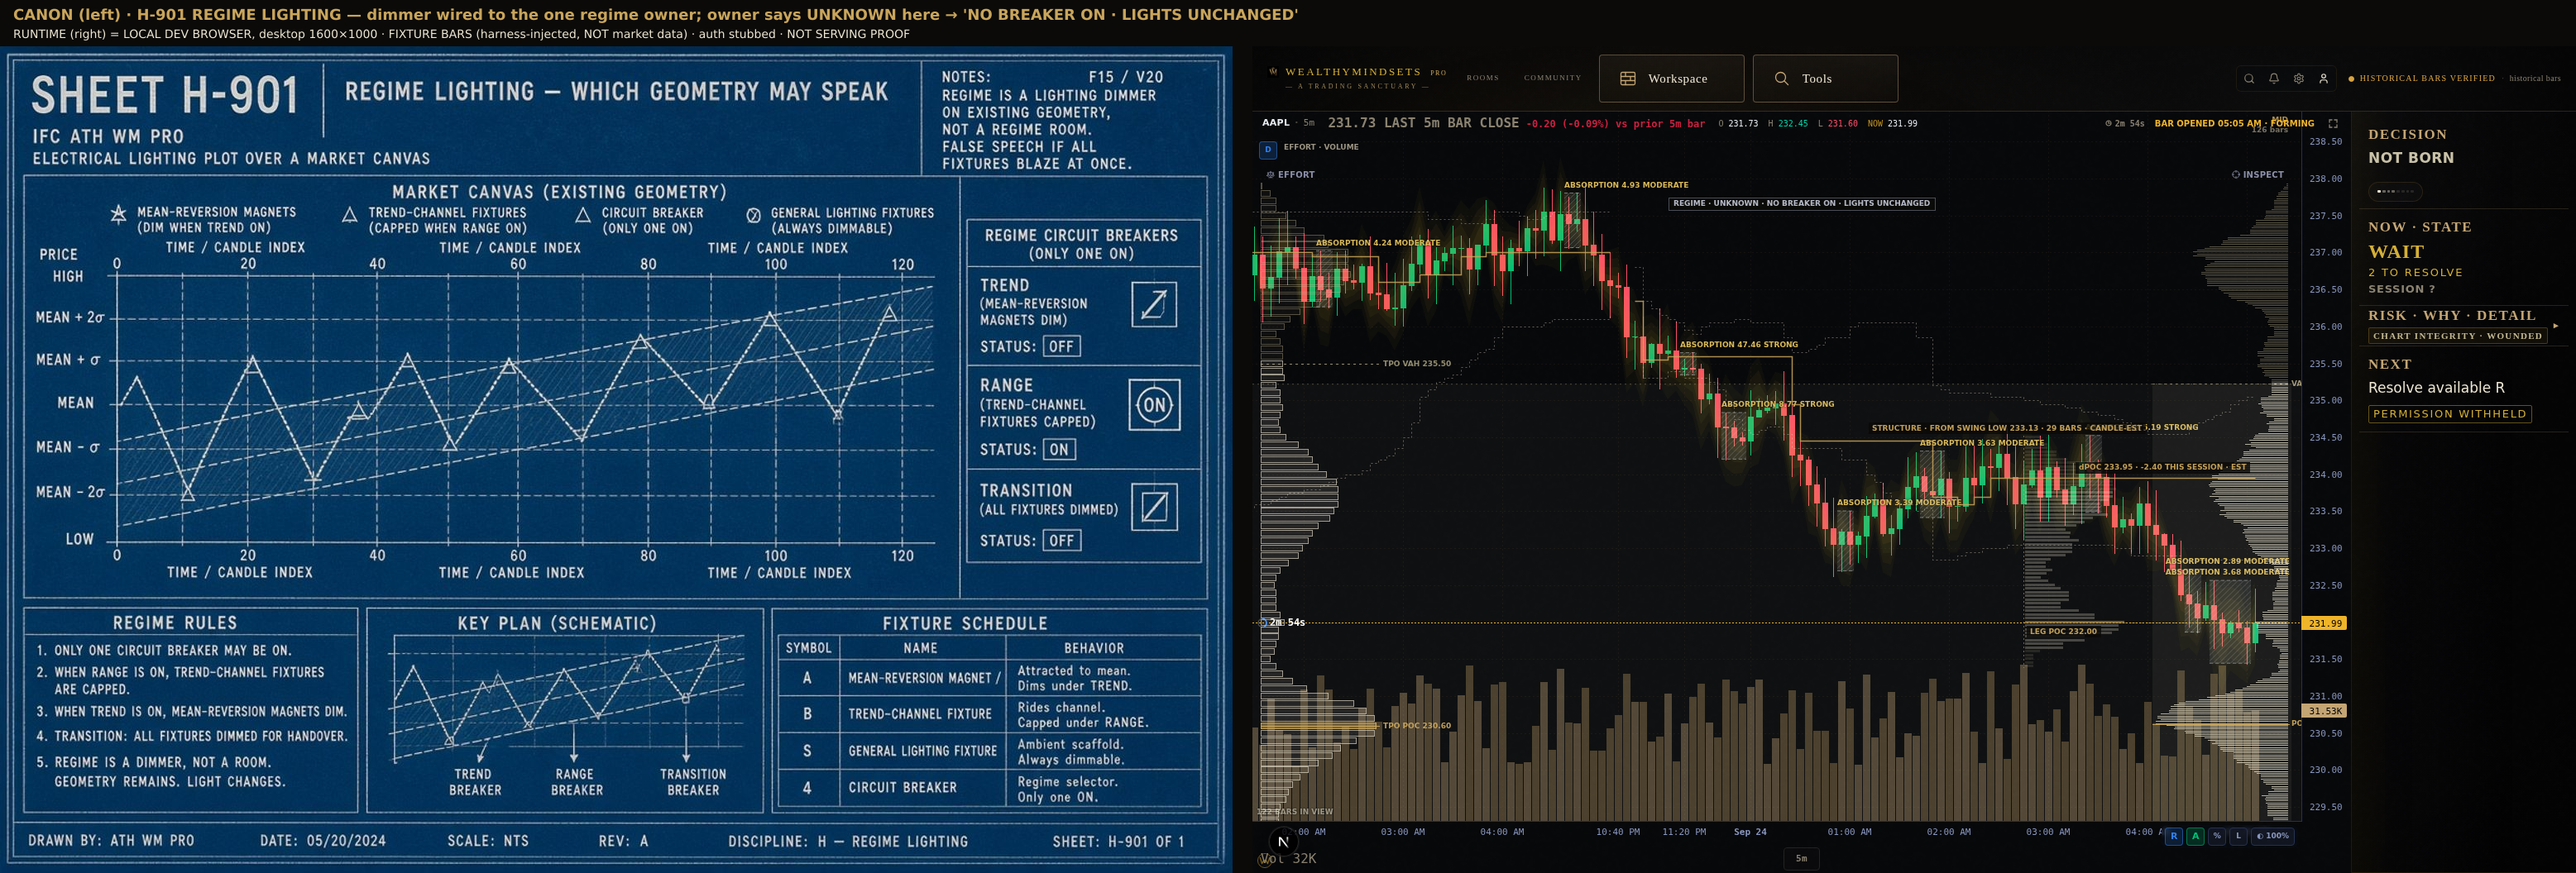
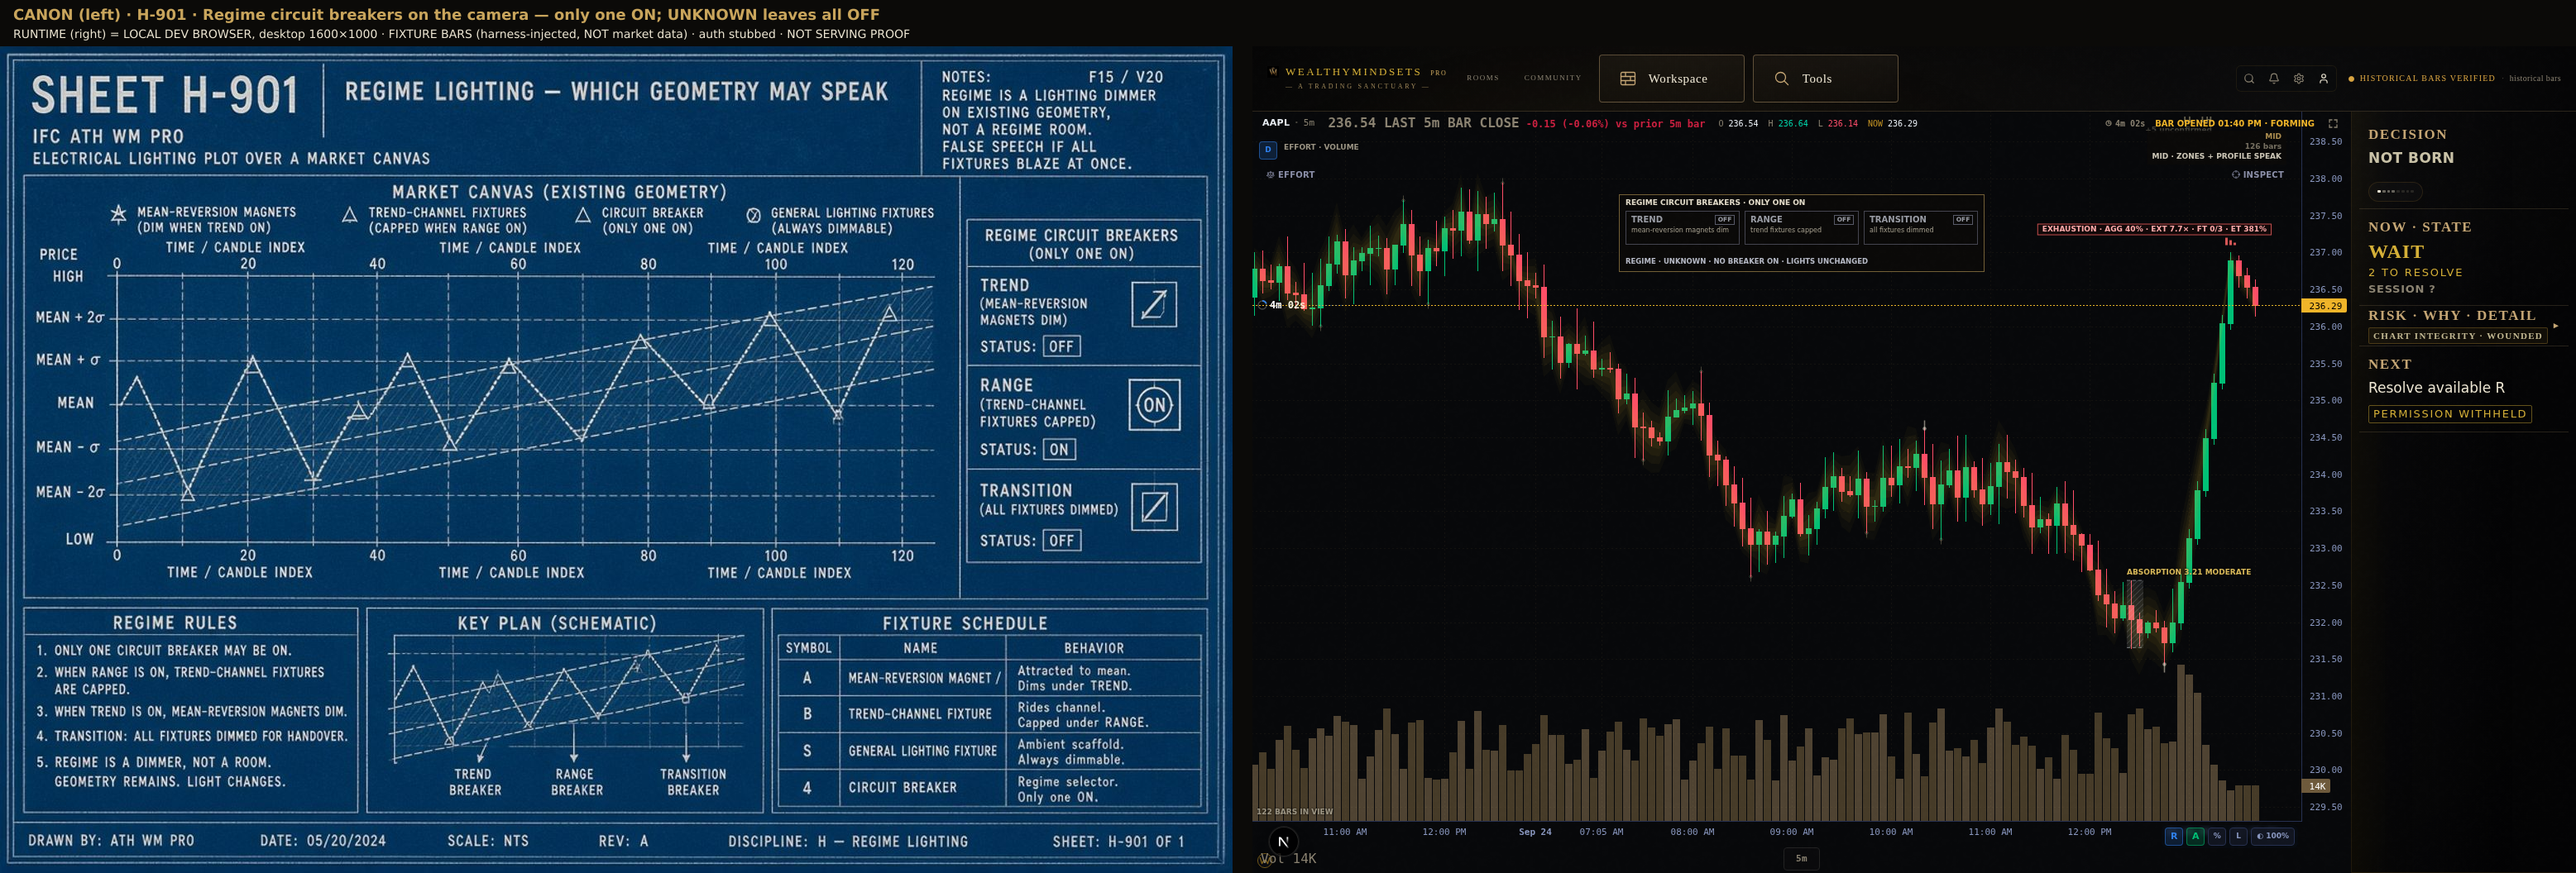
H-901 regime lighting drawn as the plate's breaker panel: three breakers, only one ON
Claude-Session: https://claude.ai/code/session_01Gntm2WzCaW5uQMS2aMojoZ

diff --git a/src/components/chart/MainChart.tsx b/src/components/chart/MainChart.tsx
@@ -9046,21 +9046,52 @@ export function MainChart({ symbol, timeframe, setTimeframe, footprintType, foot
         ds.regimeLighting = lightOn ? (regimeLight?.breaker ?? "NO_BREAKER") : "OFF";
         ds.regimeLightingVerdict = regimeLight?.verdict ?? "";
         if (lightOn && regimeLight) {
+          // THE PLATE'S BREAKER PANEL — three breakers, only one ON. UNKNOWN
+          // leaves all three OFF and says so; nothing is switched by guess.
           ctx.save();
-          ctx.font = "700 9px ui-sans-serif, system-ui, sans-serif";
-          const text = regimeLight.chip;
-          const w = Math.ceil(ctx.measureText(text).width) + 12;
-          const x = Math.round(W / 2 - w / 2);
-          const y = 112;
-          ctx.fillStyle = "rgba(11,10,8,0.86)";
-          ctx.fillRect(x, y - 8, w, 16);
-          ctx.strokeStyle = regimeLight.breaker ? "rgba(201,165,92,0.8)" : "rgba(139,143,168,0.5)";
-          ctx.lineWidth = 1;
-          ctx.strokeRect(x + 0.5, y - 7.5, w - 1, 15);
+          const BRK: { id: "TREND" | "RANGE" | "TRANSITION"; note: string }[] = [
+            { id: "TREND", note: "mean-reversion magnets dim" },
+            { id: "RANGE", note: "trend fixtures capped" },
+            { id: "TRANSITION", note: "all fixtures dimmed" },
+          ];
+          const bw = 138, gap = 6, ph = 62;
+          const pw = bw * 3 + gap * 2 + 16;
+          const x0 = Math.round(W / 2 - pw / 2);
+          const y0 = 100;
+          ctx.fillStyle = "rgba(11,10,8,0.9)";
+          ctx.fillRect(x0, y0, pw, ph + 32);
+          ctx.strokeStyle = "rgba(201,165,92,0.55)"; ctx.lineWidth = 1;
+          ctx.strokeRect(x0 + 0.5, y0 + 0.5, pw - 1, ph + 31);
+          ctx.textAlign = "left"; ctx.textBaseline = "middle";
+          ctx.font = "800 9px ui-sans-serif, system-ui, sans-serif";
+          ctx.fillStyle = "rgba(237,230,211,0.95)";
+          ctx.fillText("REGIME CIRCUIT BREAKERS · ONLY ONE ON", x0 + 8, y0 + 11);
+          BRK.forEach((b, i) => {
+            const on = regimeLight.breaker === b.id;
+            const bx = x0 + 8 + i * (bw + gap), by = y0 + 20;
+            ctx.strokeStyle = on ? "rgba(240,190,70,1)" : "rgba(139,143,168,0.45)";
+            ctx.lineWidth = on ? 1.5 : 1;
+            ctx.strokeRect(bx + 0.5, by + 0.5, bw - 1, ph - 22);
+            ctx.lineWidth = 1;
+            ctx.font = "800 10px ui-sans-serif, system-ui, sans-serif";
+            ctx.fillStyle = on ? "rgba(240,190,70,1)" : "rgba(200,204,218,0.75)";
+            ctx.fillText(b.id, bx + 7, by + 11);
+            ctx.font = "500 8px ui-sans-serif, system-ui, sans-serif";
+            ctx.fillStyle = "rgba(200,192,174,0.8)";
+            ctx.fillText(b.note, bx + 7, by + 24);
+            // Status tab: ON filled, OFF hollow.
+            const sx = bx + bw - 30, sy = by + 5;
+            if (on) { ctx.fillStyle = "rgba(240,190,70,1)"; ctx.fillRect(sx, sy, 24, 12); }
+            else { ctx.strokeStyle = "rgba(139,143,168,0.6)"; ctx.strokeRect(sx + 0.5, sy + 0.5, 23, 11); }
+            ctx.font = "800 7.5px ui-sans-serif, system-ui, sans-serif";
+            ctx.textAlign = "center";
+            ctx.fillStyle = on ? "rgba(11,10,8,1)" : "rgba(200,204,218,0.75)";
+            ctx.fillText(on ? "ON" : "OFF", sx + 12, sy + 6.5);
+            ctx.textAlign = "left";
+          });
+          ctx.font = "700 8.5px ui-sans-serif, system-ui, sans-serif";
           ctx.fillStyle = regimeLight.breaker ? "rgba(201,165,92,1)" : "rgba(200,204,218,0.9)";
-          ctx.textAlign = "left";
-          ctx.textBaseline = "middle";
-          ctx.fillText(text, x + 6, y);
+          ctx.fillText(regimeLight.chip, x0 + 8, y0 + ph + 20);
           ctx.restore();
         }
 
